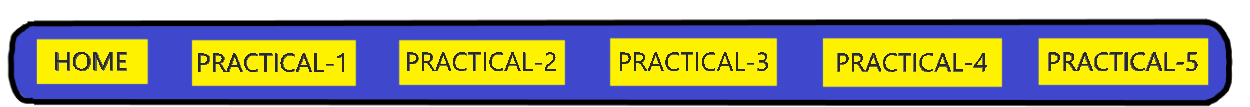
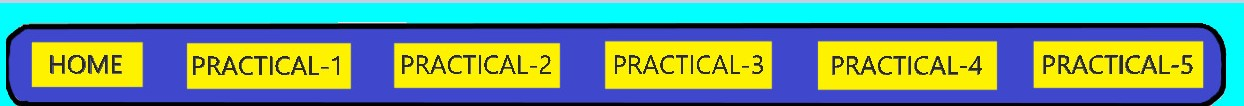
updated

diff --git a/Practical-5.html b/Practical-5.html
@@ -6,7 +6,7 @@
     <meta name="viewport" content="width=device-width, initial-scale=1.0">
     <title>Practical-5</title>
 </head>
-<body>
+<body style="background-color: #00ffff;">
     <p style="text-align: center;"><img src="./assets/navbar.png" alt="" usemap="#nav"></p>
     <map name="nav">
         <area shape="rect" coords="38,81,147,40" href="./index.html" alt="">
@@ -16,6 +16,35 @@
         <area shape="rect" coords="825,84,1001,39" href="./Practical-4.html" alt="">
         <area shape="rect" coords="1040,83,1200,40" href="./Practical-5.html" alt="">
     </map>
+
+    <div style="margin-top: 45px;">
+        <span style="padding-left: 590px;"><img src="./assets/h.png" alt="can't load" usemap="#h"></span>
+        <span><img src="./assets/c.png" alt="can't load" usemap="#c"></span>
+    </div>
+    
+    <div>
+        <span style="padding-left: 590px"><img src="./assets/j.png" alt="can't load" usemap="#j"></span>
+        <span style="display: inline; text-align: center;"><img src="/assets/b.png" alt="can't load" usemap="#b"></span>
+    </div>
+    
+
+    <map name="h">
+        <area shape="default" coords="" href="./HTMLicon.html" alt="can't load">
+    </map>
+    <map name="c">
+        <area shape="default" coords="" href="./CSSicon.html" alt="can't load">
+    </map>
+    <map name="j">
+        <area shape="default" coords="" href="./JSicon.html" alt="can't load">
+    </map>
+    <map name="b">
+        <area shape="default" coords="" href="./BOOTicon.html" alt="can't load">
+    </map>
+
+    <br>
+
+    <p style="color: black; font-family: 'Times New Roman', Times, serif; text-align: center; font-size: large;">Click on any part of logo to know more about these technologies</p>
+
 
 </body>
 </html>

diff --git a/HTMLicon.html b/HTMLicon.html
@@ -7,6 +7,7 @@
     <title>Document</title>
 </head>
 <body>
-    <h1>HTML</h1>
+    <p style="text-align: center;"><img src="./assets/ithtml.jpg" alt="can't load"></p>
+    <p style="text-align: center; background-color: darkkhaki; padding: 5px;">HTML stands for Hypertext Markup Language, and it is widely used language to write Web Pages.Hypertext refers to the way in which web pages (HTML documents) are linked together.Thus, the link available on a webpage is called Hypertext.As it name suggests, HTML is a Markup Language which means you use HTML to simply "mark-up" a text document with tags that tell a Web browser how to structure it to display.</p>
 </body>
 </html>
